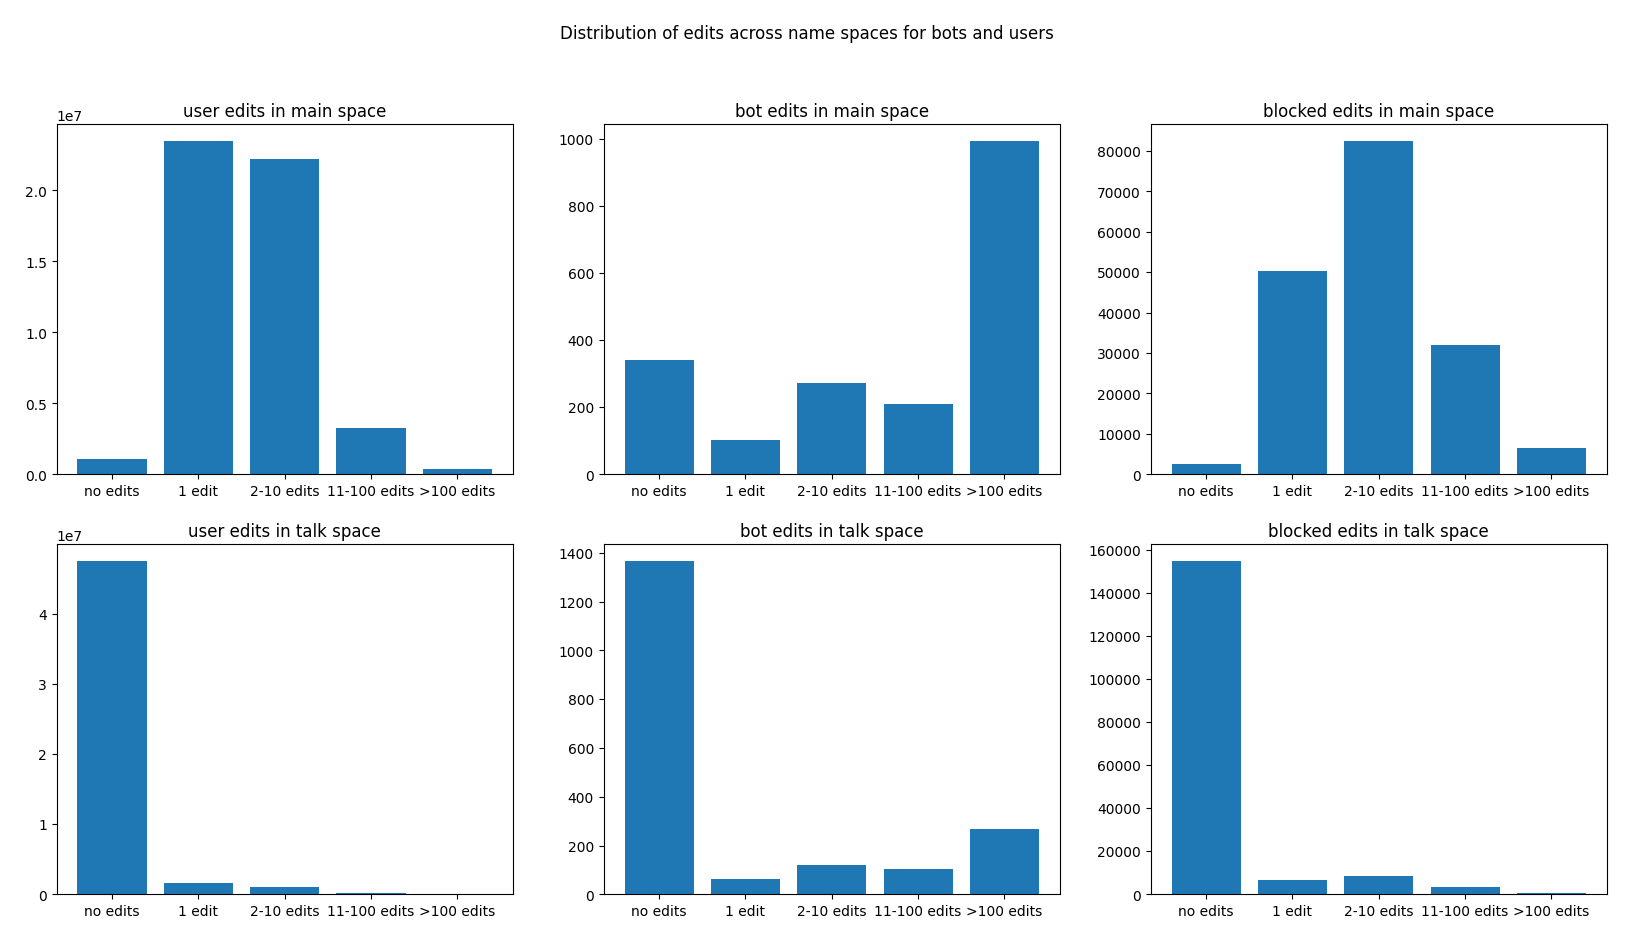
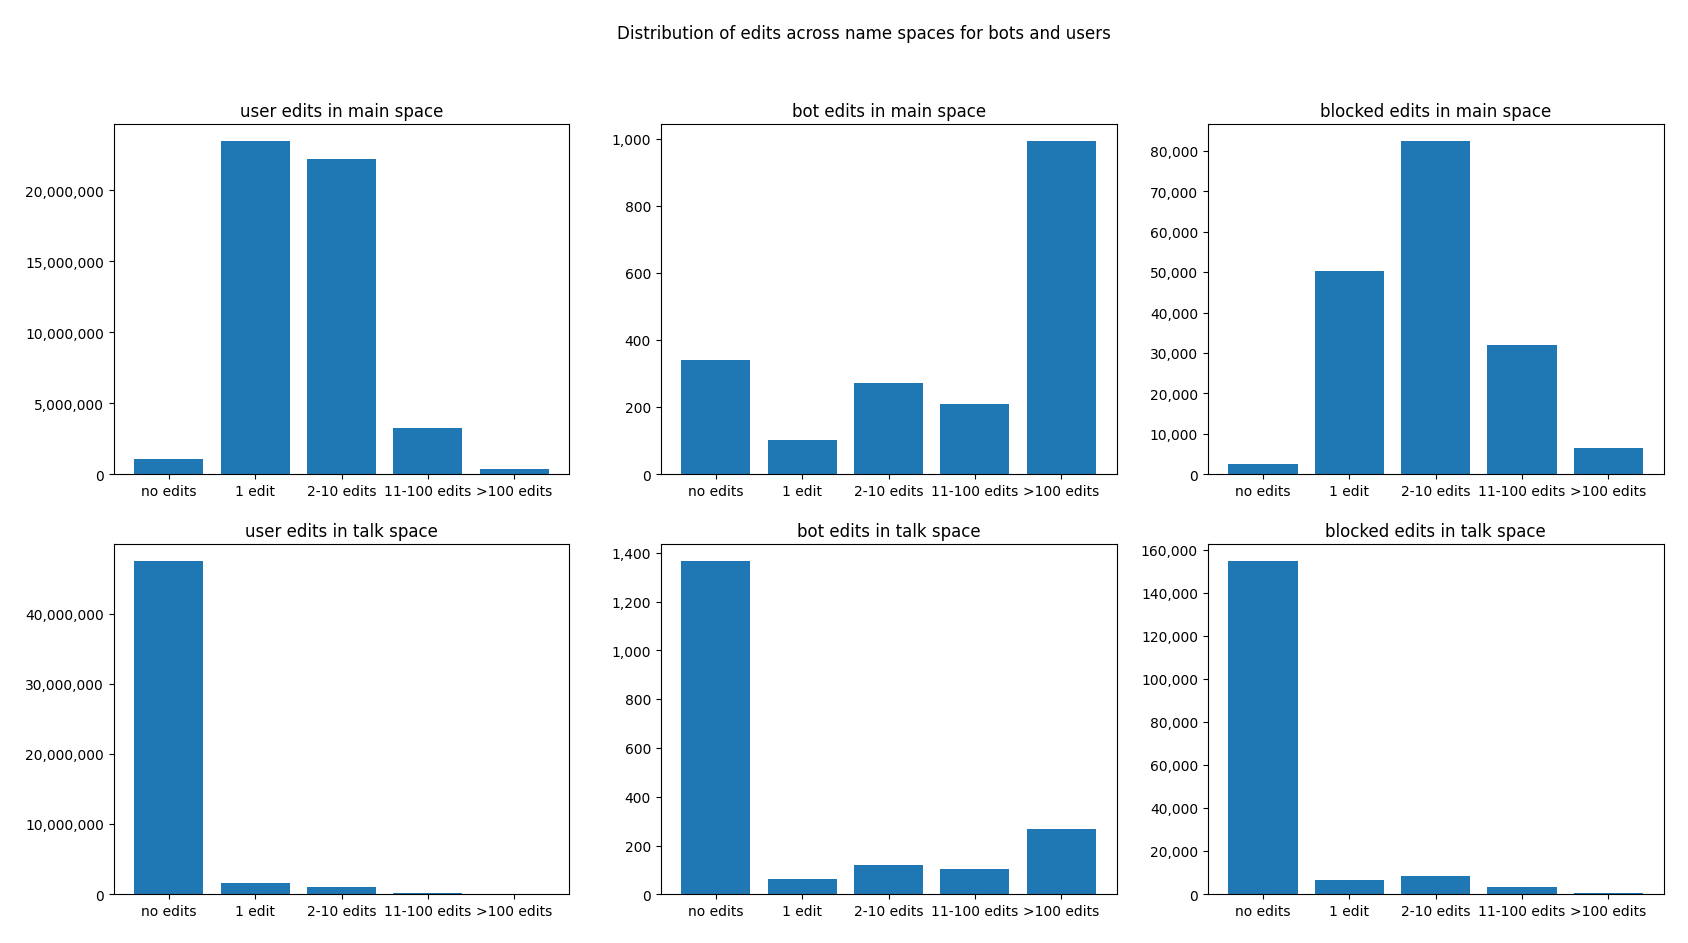
add plot of time between edits and update yaxis

diff --git a/nsdb/plot.py b/nsdb/plot.py
@@ -3,9 +3,10 @@ This script ....
 """
 import argparse
 import os
-import matplotlib.pyplot as plt
 
 import Database
+import matplotlib.pyplot as plt
+import matplotlib.ticker as tkr
 
 
 def partitionStatus(cursor, i, plotDir, dataDir):
@@ -233,6 +234,14 @@ def numMainTalkEditsForBiggestIPs(cursor, i, plotDir, dataDir):
 
 
 def distributionOfMainEditsUserBots(cursor, i, plotDir, dataDir, dryrun=False):
+    def formatter(x, pos):  # formatter function takes tick label and tick position
+        s = "%d" % x
+        groups = []
+        while s and s[-1].isdigit():
+            groups.append(s[-3:])
+            s = s[:-3]
+        return s + ",".join(reversed(groups))
+
     figname = plotDir + str(i)
     plt.figure()
 
@@ -358,20 +367,26 @@ def distributionOfMainEditsUserBots(cursor, i, plotDir, dataDir, dryrun=False):
         talkspaceBlockedData = [154838, 6404, 8635, 3173, 783]
 
     fig, axs = plt.subplots(2, 3)
+    threeFigures = tkr.FuncFormatter(formatter)
     fig.suptitle("Distribution of edits across name spaces for bots and users")
     axs[0, 0].set_title("user edits in main space")
     axs[0, 0].bar(columns, mainspaceUserData)
+    axs[0, 0].yaxis.set_major_formatter(threeFigures)
     axs[0, 1].set_title("bot edits in main space")
     axs[0, 1].bar(columns, mainspaceBotData)
+    axs[0, 1].yaxis.set_major_formatter(threeFigures)
     axs[0, 2].set_title("blocked edits in main space")
     axs[0, 2].bar(columns, mainspaceBlockedData)
+    axs[0, 2].yaxis.set_major_formatter(threeFigures)
     axs[1, 0].set_title("user edits in talk space")
     axs[1, 0].bar(columns, talkspaceUserData)
+    axs[1, 0].yaxis.set_major_formatter(threeFigures)
     axs[1, 1].set_title("bot edits in talk space")
     axs[1, 1].bar(columns, talkspaceBotData)
+    axs[1, 1].yaxis.set_major_formatter(threeFigures)
     axs[1, 2].set_title("blocked edits in talk space")
     axs[1, 2].bar(columns, talkspaceBlockedData)
-    # fig.tight_layout()
+    axs[1, 2].yaxis.set_major_formatter(threeFigures)
     plt.gcf().set_size_inches(20, 10)
     plt.savefig(figname, bbox_inches="tight", pad_inches=0.25)
 
@@ -525,6 +540,98 @@ def editTimesUserBots(cursor, i, plotDir, dataDir, dryrun=False):
     plt.savefig(figname, bbox_inches="tight", pad_inches=0.25)
 
 
+def distributionOfEditsPerNamespace(cursor, i, plotDir, dataDir, dryrun=False):
+    figname = plotDir + str(i)
+    plt.figure()
+
+    columns = ["1 edit", "2-10 edits", "11-100 edits", ">100 edits"]
+    mainspace = """SELECT
+    (SELECT count(*) FROM page WHERE namespace = 0
+    and number_of_edits = 1),
+    (SELECT count(*) FROM page WHERE namespace = 0
+    and number_of_edits > 1 and number_of_edits <= 10),
+    (SELECT count(*) FROM page WHERE namespace = 0
+    and number_of_edits > 10 and number_of_edits <= 100),
+    (SELECT count(*) FROM page WHERE namespace = 0
+    and number_of_edits > 100);"""
+    if not dryrun:
+        cursor.execute(mainspace,)
+        mainspaceData = cursor.fetchall()
+        mainspaceData = list(*mainspaceData)
+        with open(dataDir + str(i) + "-mainspace.txt", "w") as file:
+            file.write(str(mainspaceData))
+    else:
+        mainspaceData = [4778018, 4321490, 3307576, 866011]
+
+    mainspaceTalk = """SELECT
+    (SELECT count(*) FROM page WHERE namespace = 1
+    and number_of_edits = 1),
+    (SELECT count(*) FROM page WHERE namespace = 1
+    and number_of_edits > 1 and number_of_edits <= 10),
+    (SELECT count(*) FROM page WHERE namespace = 1
+    and number_of_edits > 10 and number_of_edits <= 100),
+    (SELECT count(*) FROM page WHERE namespace = 1
+    and number_of_edits > 100);"""
+    if not dryrun:
+        cursor.execute(mainspaceTalk,)
+        mainspaceTalkData = cursor.fetchall()
+        mainspaceTalkData = list(*mainspaceTalkData)
+        with open(dataDir + str(i) + "-mainspace-talk.txt", "w") as file:
+            file.write(str(mainspaceTalkData))
+    else:
+        mainspaceTalkData = [2016660, 4227840, 683342, 45133]
+
+    user = """SELECT
+    (SELECT count(*) FROM page WHERE namespace = 2
+    and number_of_edits = 1),
+    (SELECT count(*) FROM page WHERE namespace = 2
+    and number_of_edits > 1 and number_of_edits <= 10),
+    (SELECT count(*) FROM page WHERE namespace = 2
+    and number_of_edits > 10 and number_of_edits <= 100),
+    (SELECT count(*) FROM page WHERE namespace = 2
+    and number_of_edits > 100);"""
+    if not dryrun:
+        cursor.execute(user,)
+        userData = cursor.fetchall()
+        userData = list(*userData)
+        with open(dataDir + str(i) + "-user.txt", "w") as file:
+            file.write(str(userData))
+    else:
+        userData = [1284828, 1161523, 284302, 38574]
+
+    userTalk = """SELECT
+    (SELECT count(*) FROM page WHERE namespace = 3
+    and  number_of_edits = 1),
+    (SELECT count(*) FROM page WHERE namespace = 3
+    and  number_of_edits > 1 and number_of_edits <= 10),
+    (SELECT count(*) FROM page WHERE namespace = 3
+    and  number_of_edits > 10 and number_of_edits <= 100),
+    (SELECT count(*) FROM page WHERE  namespace = 3
+    and  number_of_edits > 100);"""
+    if not dryrun:
+        cursor.execute(userTalk,)
+        userTalkData = cursor.fetchall()
+        userTalkData = list(*userTalkData)
+        with open(dataDir + str(i) + "-user-talk.txt", "w") as file:
+            file.write(str(userTalkData))
+    else:
+        userTalkData = [7782495, 5047261, 406777, 33363]
+
+    fig, axs = plt.subplots(2, 2, sharey=True)
+    fig.suptitle("Distribution of number of edits per page across name spaces")
+    axs[0, 0].set_title("page edits in main space")
+    axs[0, 0].bar(columns, mainspaceData)
+    axs[0, 1].set_title("page edits in main talk space")
+    axs[0, 1].bar(columns, mainspaceTalkData)
+    axs[1, 0].set_title("page edits in user space")
+    axs[1, 0].bar(columns, userData)
+    axs[1, 1].set_title("page edits in user talk space")
+    axs[1, 1].bar(columns, userTalkData)
+    # fig.tight_layout()
+    plt.gcf().set_size_inches(11, 9)
+    plt.savefig(figname, bbox_inches="tight", pad_inches=0.25)
+
+
 def plot(plotDir: str = "../plots/", dryrun=False):
     """A function"""
     if not os.path.exists(plotDir):
@@ -591,6 +698,10 @@ def plot(plotDir: str = "../plots/", dryrun=False):
     # 10
     i = i + 1
     # editTimesUserBots(cursor, i, plotDir, dataDir, dryrun)
+
+    # 11
+    i = i + 1
+    distributionOfEditsPerNamespace(cursor, i, plotDir, dataDir, dryrun)
 
     if not dryrun:
         cursor.close()
